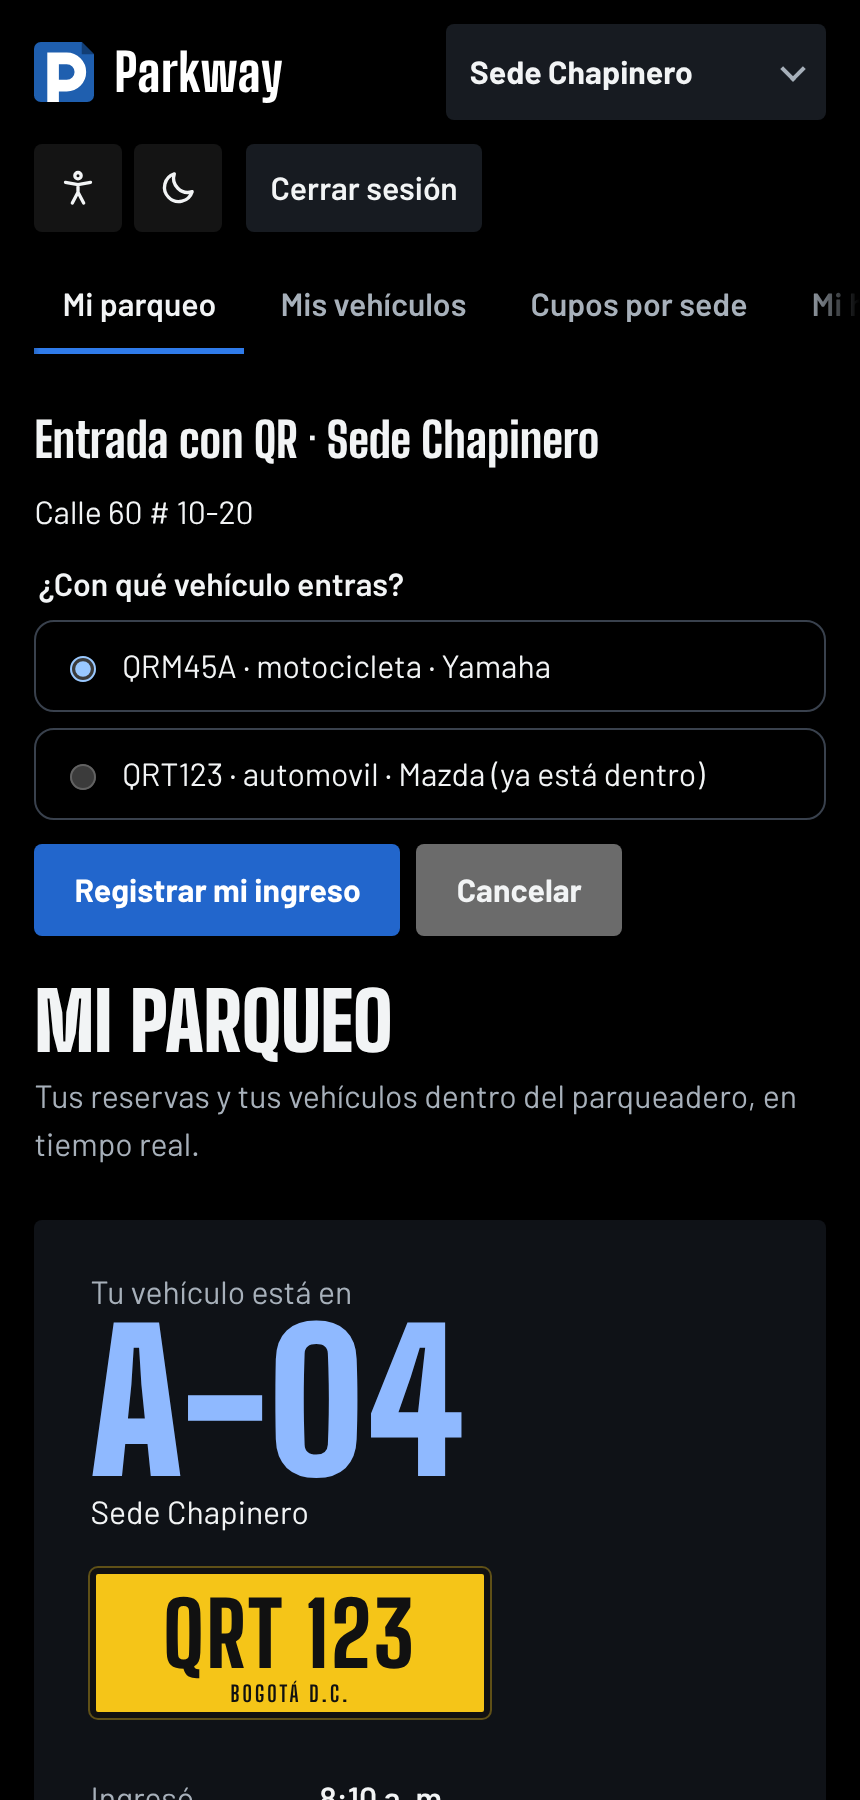
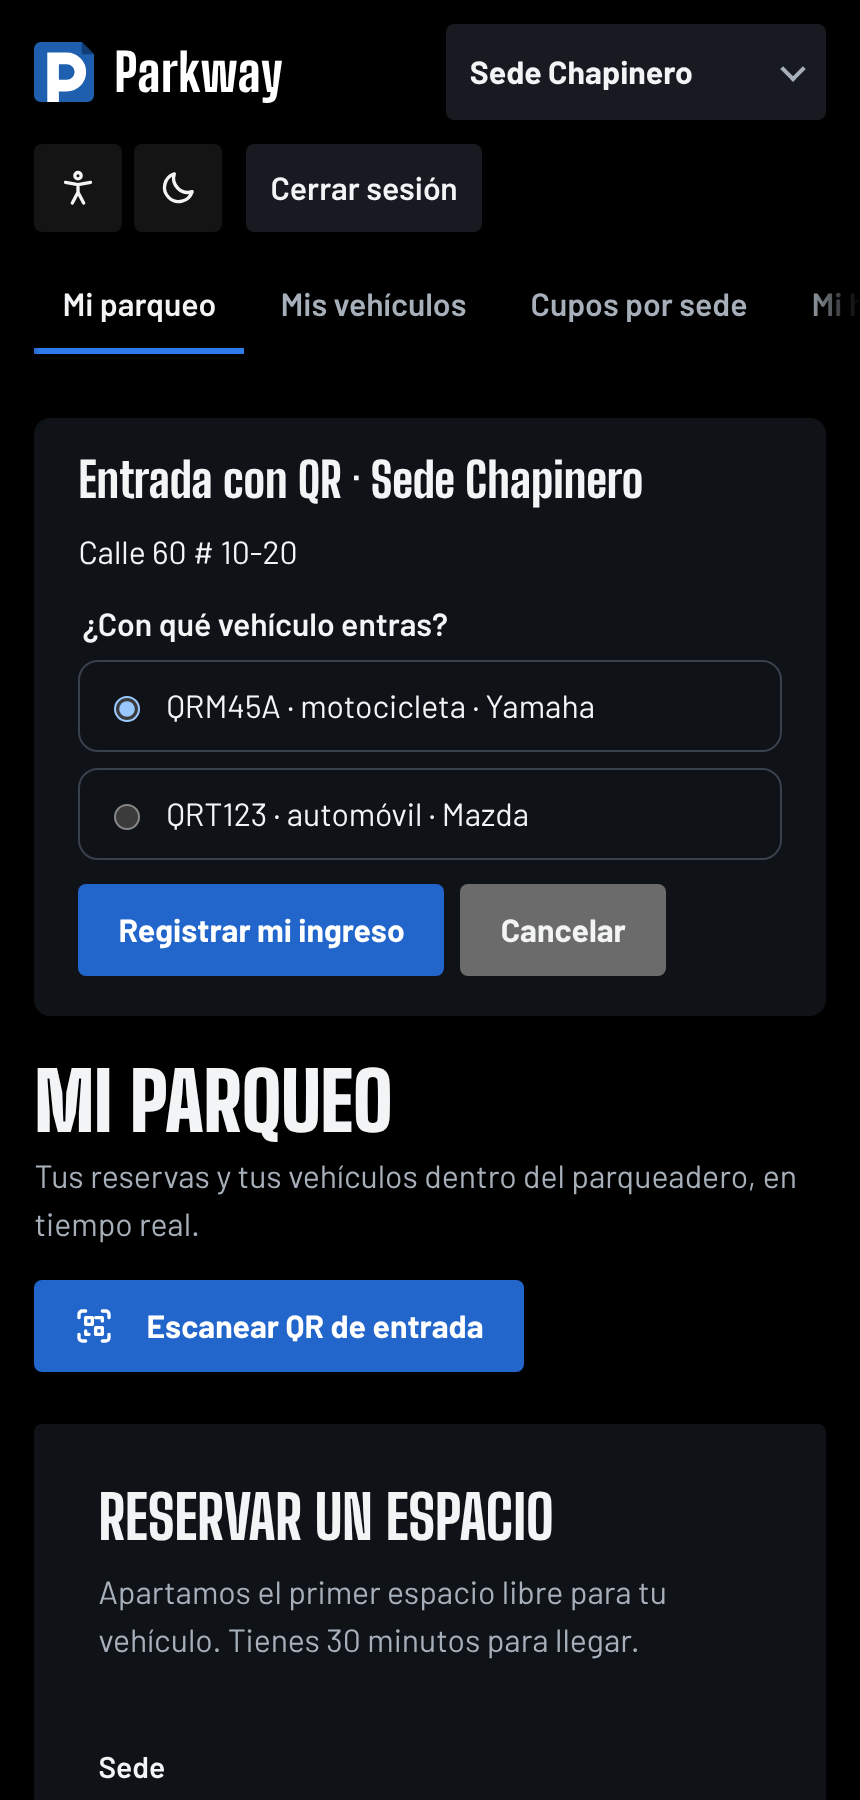
Ajustes técnicos y visuales
- Estilo de tarjeta para el QR del operador, la entrada con QR y el aviso de
  autorización.
- Los avisos importantes del personal se anuncian como alerta a los lectores
  de pantalla.
- El cliente solo vuelve a consultar su estado con operaciones que pueden
  afectarlo (no con cada cambio de espacio de cualquier sede).
- Se quita /api/estacionamiento/ingresos-qr, reemplazada por /actividad.

diff --git a/backend/src/services/qrService.ts b/backend/src/services/qrService.ts
@@ -2,7 +2,6 @@ import { createHash } from "crypto";
 import jwt from "jsonwebtoken";
 import QRCode from "qrcode";
 import { badRequest, conflict, forbidden, notFound } from "../errors/AppError";
-import { pool } from "../db/pool";
 import { JWT_SECRET, UsuarioToken } from "../middlewares/auth";
 import * as catalogoRepository from "../repositories/catalogoRepository";
 import * as vehiculoRepository from "../repositories/vehiculoRepository";
@@ -115,29 +114,3 @@ export async function ingresar(cliente: UsuarioToken, body: Record<string, unkno
   );
 }
 
-/**
- * Ingresos con QR recientes de una sede, para avisar al operador.
- * El WebSocket solo dice "hubo un ingreso con QR en la sede N"; los datos
- * (placa, espacio, cliente) salen de aquí, con sesión y acceso a la sede.
- */
-export async function ingresosRecientes(usuario: UsuarioToken, idParqueadero: number, desde?: string) {
-  if (!Number.isInteger(idParqueadero) || idParqueadero <= 0) throw badRequest("Seleccione la sede");
-  await verificarAcceso(usuario, idParqueadero);
-  const inicio = desde && !Number.isNaN(Date.parse(desde)) ? new Date(desde) : new Date(Date.now() - 12 * 3_600_000);
-  const { rows } = await pool.query(
-    `SELECT r.id_registro, r.placa, e.codigo AS codigo_espacio, tv.nombre AS tipo, u.nombre AS cliente,
-            r.estado, t.fecha_fin AS fecha
-       FROM transaccion t
-       JOIN registro_estacionamiento r ON r.id_registro::text = t.id_entidad
-       JOIN espacio e ON e.id_espacio = r.id_espacio
-       JOIN vehiculo v ON v.placa = r.placa
-       JOIN tipo_vehiculo tv ON tv.id_tipo = v.id_tipo
-       LEFT JOIN usuario u ON u.id_usuario = t.id_usuario
-      WHERE t.tipo_operacion = 'INGRESO' AND t.estado = 'CONFIRMADA' AND t.detalle->>'origen' = 'QR'
-        AND e.id_parqueadero = $1 AND t.fecha_fin > $2
-      ORDER BY t.fecha_fin DESC
-      LIMIT 20`,
-    [idParqueadero, inicio]
-  );
-  return rows;
-}

diff --git a/frontend/src/components/Notificador.tsx b/frontend/src/components/Notificador.tsx
@@ -13,6 +13,9 @@ import { escucharAvisos } from "../lib/tiempoReal";
  * La configuración la guarda el cliente en "Notificaciones".
  */
 export const EVENTO_PREFERENCIAS = "parkway:preferencias";
+
+/** Operaciones que pueden cambiar lo que ve el cliente (su vehículo, su reserva o su pago). */
+const OPERACIONES_CLIENTE = new Set(["INGRESO", "SALIDA", "RESERVA", "CANCELAR_RESERVA", "EXPIRACION", "ANULAR_PAGO", "COBRO_NUEVO"]);
 export const EVENTO_AVISO = "parkway:aviso";
 
 interface Aviso {
@@ -158,13 +161,16 @@ export function Notificador() {
     revisar();
     const id = window.setInterval(revisar, 20000);
     // RF12: la entrada y la salida se avisan en el momento, sin esperar la revisión periódica.
+    // Solo se revisa con las operaciones que pueden tocar al cliente (no con cada cambio de
+    // espacio de cualquier sede), y los avisos seguidos se juntan en una sola consulta.
     let pendiente: number | null = null;
-    const quitarAvisos = escucharAvisos(() => {
-      if (pendiente !== null) return;
+    const quitarAvisos = escucharAvisos((a) => {
+      const relevante = a.tipo === "reconectado" || (a.tipo === "actividad" && OPERACIONES_CLIENTE.has(a.operacion));
+      if (!relevante || pendiente !== null) return;
       pendiente = window.setTimeout(() => {
         pendiente = null;
         revisar();
-      }, 300);
+      }, 500);
     });
     return () => {
       vivo = false;

diff --git a/frontend/src/lib/api.ts b/frontend/src/lib/api.ts
@@ -408,16 +408,6 @@ export interface QrSede {
   expira: string;
 }
 
-export interface IngresoQr {
-  id_registro: number;
-  placa: string;
-  codigo_espacio: string;
-  tipo: string;
-  cliente: string | null;
-  estado: string;
-  fecha: string;
-}
-
 /** Movimiento de una sede para los avisos del personal. */
 export interface ActividadPersonal {
   id: number;
@@ -729,8 +719,6 @@ export const api = {
   qrIngreso: (idParqueadero: number) => request<QrSede>("GET", `/estacionamiento/qr-ingreso?idParqueadero=${idParqueadero}`),
   actividad: (idParqueadero: number, desde: string) =>
     request<ActividadPersonal[]>("GET", `/estacionamiento/actividad?idParqueadero=${idParqueadero}&desde=${encodeURIComponent(desde)}`),
-  ingresosQr: (idParqueadero: number, desde: string) =>
-    request<IngresoQr[]>("GET", `/estacionamiento/ingresos-qr?idParqueadero=${idParqueadero}&desde=${encodeURIComponent(desde)}`),
   cliente: {
     actividad: (desde: string) => request<ActividadCliente[]>("GET", `/cliente/actividad?desde=${encodeURIComponent(desde)}`),
     infoQr: (token: string) => request<InfoQr>("GET", `/cliente/ingreso-qr/${encodeURIComponent(token)}`),

diff --git a/backend/tests/integracion/propuesta.test.ts b/backend/tests/integracion/propuesta.test.ts
@@ -137,11 +137,11 @@ describe("entrada con QR", () => {
     assert.equal(b.detalle.origen, "QR");
     await fallaCon(qr.ingresar(CLIENTE, { token, placa: "ABC123" }), 409); // ya está dentro
 
-    // El operador de la sede ve el ingreso en sus avisos.
-    const avisos = await qr.ingresosRecientes(OPERADOR1, CHAPINERO);
-    assert.equal(avisos[0].id_registro, r.id_registro);
-    assert.equal(avisos[0].placa, "ABC123");
-    assert.equal(avisos[0].cliente, "Juan Cliente");
+    // El operador de la sede lo ve en sus avisos de actividad, marcado como QR.
+    const avisos = await actividad.dePersonal(OPERADOR1, CHAPINERO);
+    const aviso = avisos.find((a) => a.placa === "ABC123" && a.operacion === "INGRESO");
+    assert.equal(aviso?.origen, "QR");
+    assert.equal(aviso?.actor, "Juan Cliente");
   });
 
   test("rechaza vehículos ajenos y códigos alterados", async () => {

diff --git a/frontend/src/styles.css b/frontend/src/styles.css
@@ -1339,7 +1339,11 @@ input[type="checkbox"] { width: 18px; height: 18px; accent-color: var(--acento);
 .lista-topes { margin: 8px 0 0 18px; padding: 0; }
 .lista-topes li { margin: 4px 0; }
 .casilla-sello { margin: 14px 0 6px; }
-.banner-autorizacion { max-width: 760px; margin: 0 0 24px; display: grid; gap: 12px; background: var(--superficie); border-radius: 8px; padding: 20px 22px; }
+.banner-autorizacion { max-width: 760px; margin: 0 0 24px; display: grid; gap: 12px; }
 .banner-autorizacion h2 { margin: 0; font-size: 1.2rem; }
 .banner-autorizacion p { margin: 0; color: var(--tinta-2); }
 .banner-autorizacion .acciones { display: flex; gap: 8px; }
+
+/* Tarjeta genérica: recuadro del QR del operador, entrada con QR y aviso de autorización. */
+.tarjeta { background: var(--superficie); border-radius: 8px; padding: 20px 22px; }
+.qr-sede.tarjeta { max-width: 520px; }

diff --git a/backend/src/routes/estacionamientoRoutes.ts b/backend/src/routes/estacionamientoRoutes.ts
@@ -37,9 +37,5 @@ router.get("/qr-ingreso", ...personal, asyncHandler<AuthenticatedRequest>(async 
 router.get("/actividad", ...personal, asyncHandler<AuthenticatedRequest>(async (req, res) => {
   res.json(await actividad.dePersonal(req.usuario!, Number(req.query.idParqueadero), req.query.desde));
 }));
-// Ingresos con QR recientes de la sede
-router.get("/ingresos-qr", ...personal, asyncHandler<AuthenticatedRequest>(async (req, res) => {
-  res.json(await qr.ingresosRecientes(req.usuario!, Number(req.query.idParqueadero), req.query.desde as string | undefined));
-}));
 
 export default router;

diff --git a/frontend/src/components/AvisosOperador.tsx b/frontend/src/components/AvisosOperador.tsx
@@ -308,7 +308,8 @@ export function AvisosOperador({ idUsuario, admin, sedes, onVer }: Props) {
   return (
     <div className="avisos" role="status" aria-live="polite">
       {avisos.map((a) => (
-        <div key={a.id} className={`aviso${a.importante ? " aviso-importante" : ""}`}>
+        // Los importantes se anuncian de inmediato a los lectores de pantalla (role="alert").
+        <div key={a.id} className={`aviso${a.importante ? " aviso-importante" : ""}`} role={a.importante ? "alert" : undefined}>
           <div>
             <strong>{a.titulo}</strong>
             <p>{a.texto}</p>

diff --git a/README.md b/README.md
@@ -578,7 +578,6 @@ Parkway/
 | POST | `/api/estacionamiento/salida/:idRegistro` | Personal | Registra la salida con su pago y comprobante. Cuerpo: `{"metodo":"EFECTIVO","recibido":10000}` o `{"metodo":"TARJETA","referencia":"482913"}` |
 | GET | `/api/estacionamiento/qr-ingreso?idParqueadero=1` | Personal | QR firmado de la sede para la entrada en autoservicio (enlace, imagen SVG y vencimiento) |
 | GET | `/api/estacionamiento/actividad?idParqueadero=1&desde=…` | Personal | Movimientos recientes de la sede hechos por otros (ingresos, salidas, reservas, vencimientos, anulaciones, espacios), para los avisos |
-| GET | `/api/estacionamiento/ingresos-qr?idParqueadero=1&desde=…` | Personal | Ingresos con QR recientes de la sede, para los avisos del operador |
 | GET | `/api/cliente/estado` | Cliente | Reserva activa y vehículos dentro con valor acumulado |
 | GET | `/api/cliente/historial` | Cliente | Visitas cerradas |
 | GET, POST | `/api/cliente/vehiculos` | Cliente | Consultar (con la sede y el espacio donde está cada uno) y registrar vehículos propios |
